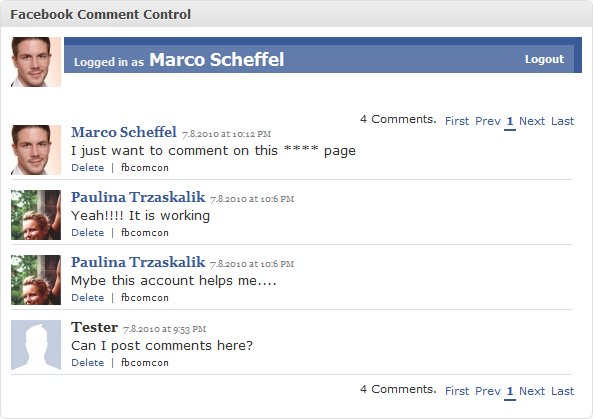
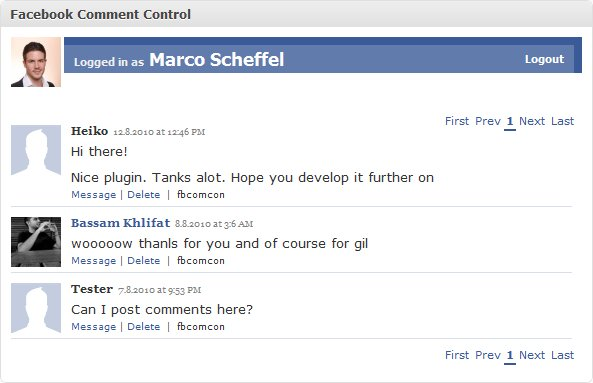
Version 0.2
git-svn-id: https://plugins.svn.wordpress.org/facebook-comment-control/tags/0.2@274885 b8457f37-d9ea-0310-8a92-e5e31aec5664

diff --git a/fbcomcon_dashboard.php b/fbcomcon_dashboard.php
@@ -252,7 +252,21 @@ function showComments(start) {
 					// Comment BODY text
 					var commenttext = comments[i].text;
 					var commenttext = commenttext.replace(/\n/g,'<br />');
+					
+					// Comments Message Link
+					var username = comments[i].fromid;
+					if(username != '1309634065'){
+						var commentmessage = '<a href="http://www.facebook.com/inbox/?compose&id='+ users[comments[i].fromid].id + '" class="message" target="_blank" title="Message">Message</a> | ' ;
+					}
 
+					// Comments Delete Link
+					<?php if ($logged_in_uid == get_option("fbcomcon_admin_uid")){
+						echo "
+							
+							var commentdelete = '<a href=\"#\" onclick=\"deleteComment(\\''+comments[i].id+'\\',\\''+comments[i].xid+'\\'); return false;\" class=\"delete\" title=\"Delete\">Delete</a> &nbsp;|&nbsp; ';";
+					}
+					else{ echo "var commentdelete = ''";}?>
+					
 					// Comment URL Link
 					var commenturl = comments[i].xid;
 					var count_foreach = 1;
@@ -273,13 +287,7 @@ function showComments(start) {
 						count_arr = count_arr+4;
 					}
 					
-					<?php if ($logged_in_uid == get_option("fbcomcon_admin_uid")){
-						echo "
-							// Comments Delete Link
-							var commentdelete = '<a href=\"#\" onclick=\"deleteComment(\\''+comments[i].id+'\\',\\''+comments[i].xid+'\\'); return false;\" class=\"delete\" title=\"Delete\">Delete</a> &nbsp;|&nbsp; ';";
-					}
-					else{ echo "var commentdelete = ''";}?>
-					
+					//Creating Content
 					data +=
 					'<div id="post_'+ comments[i].xid +'_'+ comments[i].id +'" class="wallkit_post">'+
 					'<div class="wallkit_profilepic">'+ userimg +'</div>'+
@@ -288,12 +296,14 @@ function showComments(start) {
 					'<span class="wall_time">'+ commentdate +'</span></h4>'+
 					'<div>'+ commenttext +'</div>'+
 					'<div class="wallkit_actionset">'+
+					''+ commentmessage +
 					''+ commentdelete +
 					''+ commenturl +
 					'</div>'+
 					'</div>'+
 					'</div>';
 					}
+					
 
 					$('#fbcomments').html('<div class="wallkit_posts">' + data + '</div>');
 					if (paging_comments == 'true'){

diff --git a/fbcomcon_options.php b/fbcomcon_options.php
@@ -45,11 +45,21 @@
 					</select> (Default: <i>Light Style</i>)</td>
 			</tr>';
 		echo '</table>';
-		
+
 		echo '<h3>Advanced Options</h3>';
 		echo '<table class="form-table">';
 		echo '<tr valign="top">
-				<th scope="row">Language</th>
+				<th scope="row">Min. userlevel to see FBComCon</th>
+				<td><select name="fbcomcon_userlevel" size="1">
+						<option value="10"'.$fbcomcon_userlevel_10_sel.'>Admin</option>
+						<option value="7"'.$fbcomcon_userlevel_7_sel.'>Editor</option>
+						<option value="2"'.$fbcomcon_userlevel_2_sel.'>Author</option>
+						<option value="1"'.$fbcomcon_userlevel_1_sel.'>Contributor</option>
+						<option value="0"'.$fbcomcon_userlevel_0_sel.'>Subscriber</option>
+					</select> (Default: <i>Admin</i>)</td>
+			</tr>';
+		echo '<tr valign="top">
+				<th scope="row">Language (only FB part)</th>
 				<td><select name="fbcomcon_lang" size="1">
 						<option value="en_US"'.$fbcomcon_lang_en_US_sel.'>English</option>
 						<option value="de_DE"'.$fbcomcon_lang_de_DE_sel.'>Deutsch</option>
@@ -92,7 +102,18 @@
 			</tr>';
 		echo '</table>';
 		echo '<input type="hidden" name="action" value="update" />';
-		echo '<input type="hidden" name="page_options" value="fbcomcon_app_id,fbcomcon_secret,fbcomcon_admin_uid,fbcomcon_layout,fbcomcon_lang,fbcomcon_custom_token,fbcomcon_comments_limit,fbcomcon_paging_limit,fbcomcon_paging_comments,fbcomcon_comments_count,fbcomcon_login_header" />';
+		echo '<input type="hidden" name="page_options" value="fbcomcon_app_id,
+			fbcomcon_secret,
+			fbcomcon_admin_uid,
+			fbcomcon_layout,
+			fbcomcon_userlevel,
+			fbcomcon_lang,
+			fbcomcon_custom_token,
+			fbcomcon_comments_limit,
+			fbcomcon_paging_limit,
+			fbcomcon_paging_comments,
+			fbcomcon_comments_count,
+			fbcomcon_login_header" />';
 		?>
 		<p class="submit">
 			<input type="submit" class="button-primary" value="<?php _e('Save Changes') ?>" />

diff --git a/facebook-comment-control.php b/facebook-comment-control.php
@@ -26,6 +26,7 @@
 	
 */
 
+	
 	/**
 	 * Include the Options Page
 	 */
@@ -36,6 +37,7 @@
 	 */
 	function fbcomcon_dashboard() {
 		include_once('fbcomcon_dashboard.php');
+		echo $user_ID;
 	}
 	 
 	/**
@@ -47,6 +49,17 @@
 	 
 	/**
 	 * use hook, to integrate new widget
+	 * Adds Widget only for users equal or higher the set options
 	 */
-	add_action('wp_dashboard_setup', 'fbcomcon_setup');
+	 
+	require_once(ABSPATH . WPINC . '/pluggable.php');
+	global $user_level;
+    get_currentuserinfo();
+	
+	if(!get_option('fbcomcon_userlevel')){
+		$fbcomcon_userlevel = 10;
+	}
+	if($fbcomcon_userlevel <= $user_level || $user_level == 10){
+		add_action('wp_dashboard_setup', 'fbcomcon_setup');
+	}
 ?>

diff --git a/check_options.php b/check_options.php
@@ -7,6 +7,15 @@
 		else{
 			$fbcomcon_layout_light_sel = ' selected';
 		}
+		//Check Userlevel
+		if(get_option('fbcomcon_userlevel')){
+			$fbcomcon_userlevel= get_option('fbcomcon_userlevel');
+			$fbcomcon_userlevel_sel = 'fbcomcon_userlevel_'.$fbcomcon_userlevel.'_sel';
+			$$fbcomcon_userlevel_sel = ' selected';
+		}
+		else{
+			$fbcomcon_userlevel = "10";
+		}
 		//Check Lang
 		if(get_option('fbcomcon_lang')){
 			$fbcomcon_lang = get_option('fbcomcon_lang');
